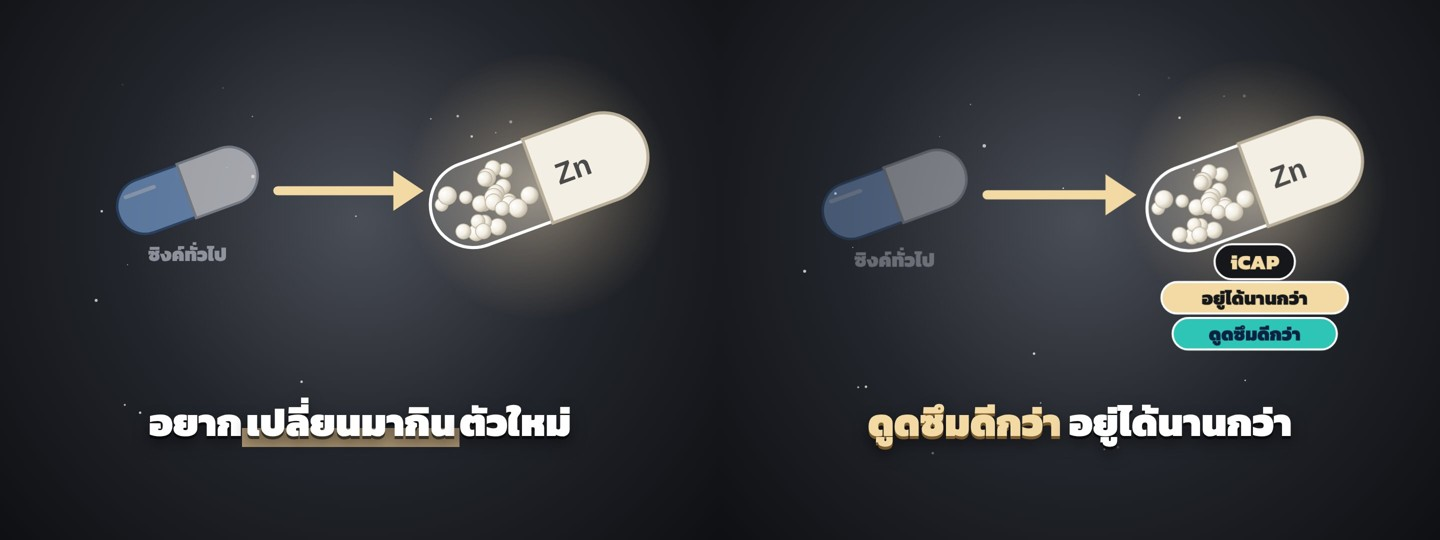
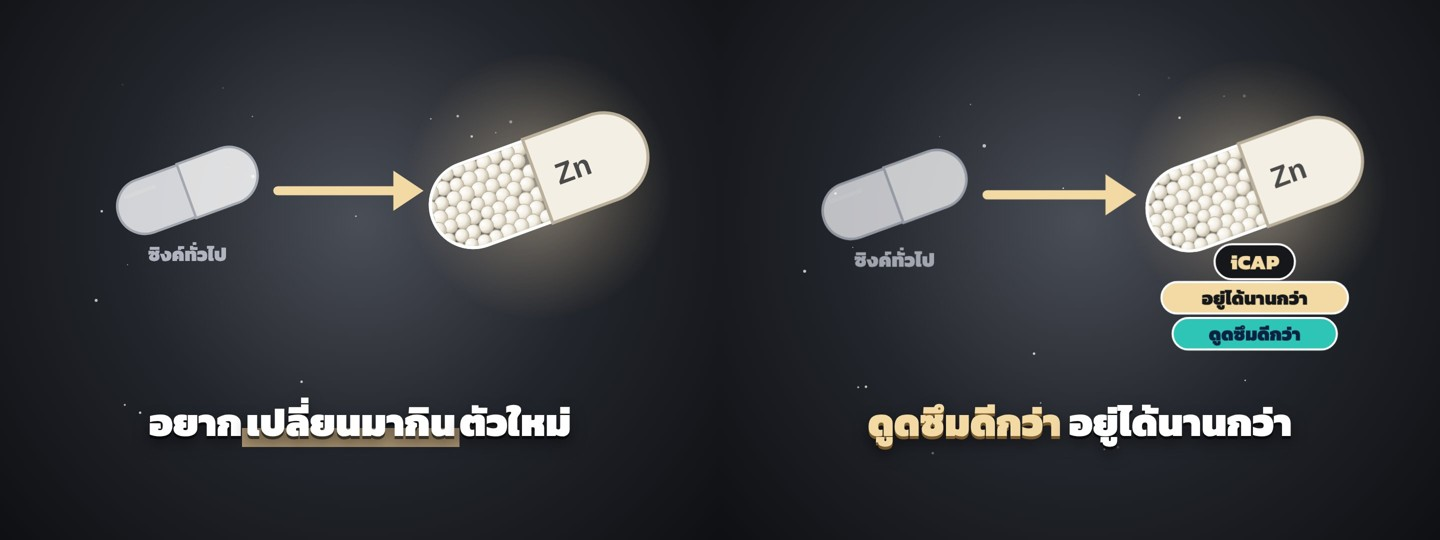
2311: plain white capsule, fuller pellets in iCAP capsule
Claude-Session: https://claude.ai/code/session_013vK57e4V6MU13RVwJvX1wC

diff --git a/output/src/2311/extra.js b/output/src/2311/extra.js
@@ -56,12 +56,14 @@ window.extra=function(t){
   $('v6').innerHTML=s}
  // S7 switch: plain capsule -> iCAP pellet capsule
  if(on(21.95,25.6)){const lt=t-21.95;let s=`<defs><radialGradient id="gP7" cx=".35" cy=".3" r=".75"><stop offset="0" stop-color="#FFFFFF"/><stop offset=".55" stop-color="#F3EEE3"/><stop offset="1" stop-color="#BFB6A3"/></radialGradient></defs>`;
-  const fade=1-0.6*cl((lt-0.8)/0.4);
-  s+=`<g opacity="${fade}"><g transform="translate(380 380) rotate(-20)"><path d="M0 -55 H-90 A55 55 0 0 0 -90 55 H0Z" fill="#7FA8E0" stroke="#2E4E7A" stroke-width="5"/><path d="M-2 -57 H88 A57 57 0 0 1 88 57 H-2Z" fill="#E7E9EE" stroke="#9AA0AC" stroke-width="5"/><path d="M-120 -30 H-60" stroke="#fff" stroke-width="8" stroke-linecap="round" opacity=".5"/></g><text x="380" y="520" text-anchor="middle" font-family="K" font-weight="900" font-size="38" fill="#C9CED8">ซิงค์ทั่วไป</text></g>`;
+  const fade=1-0.25*cl((lt-0.8)/0.4);
+  s+=`<g opacity="${fade}"><g transform="translate(380 380) rotate(-20)"><path d="M0 -55 H-90 A55 55 0 0 0 -90 55 H0Z" fill="#F4F5F8" stroke="#B9BEC8" stroke-width="5"/><path d="M-2 -57 H88 A57 57 0 0 1 88 57 H-2Z" fill="#FFFFFF" stroke="#B9BEC8" stroke-width="5"/><path d="M-120 -30 H-60" stroke="#fff" stroke-width="8" stroke-linecap="round" opacity=".5"/></g><text x="380" y="520" text-anchor="middle" font-family="K" font-weight="900" font-size="38" fill="#C9CED8">ซิงค์ทั่วไป</text></g>`;
   const a=cl((lt-0.5)/0.5);s+=`<path d="M560 380 H${560+230*eOC(a)}" stroke="#F3D9A4" stroke-width="18" stroke-linecap="round"/>`+(a>0.8?`<path d="M790 340 L850 380 L790 420Z" fill="#F3D9A4"/>`:'');
   const k=eOB(cl((lt-0.9)/0.4));let caps=`<g transform="translate(1080 360) scale(${k*1.5}) rotate(-20)"><path d="M0 -55 H-90 A55 55 0 0 0 -90 55 H0Z" fill="rgba(255,255,255,.15)" stroke="#fff" stroke-width="4"/>`;
   let kk=5;const rr=()=>{kk=(kk*16807)%2147483647;return (kk-1)/2147483646};
-  for(let i=0;i<26;i++)caps+=`<circle cx="${-18-rr()*120}" cy="${(rr()-.5)*84}" r="${8+rr()*4}" fill="url(#gP7)" stroke="#BFB6A3" stroke-width="1"/>`;
+  caps+=`<clipPath id="cp7"><path d="M0 -53 H-90 A53 53 0 0 0 -90 53 H0Z"/></clipPath><g clip-path="url(#cp7)">`;
+  for(let row=0;row<7;row++)for(let col=0;col<9;col++){const x=-8-col*17-(row%2)*8.5+(rr()-.5)*3,y=-48+row*16+(rr()-.5)*3;caps+=`<circle cx="${x.toFixed(1)}" cy="${y.toFixed(1)}" r="${(8.5+rr()*1.8).toFixed(1)}" fill="url(#gP7)" stroke="#BFB6A3" stroke-width="1"/>`}
+  caps+=`</g><path d="M0 -55 H-90 A55 55 0 0 0 -90 55 H0" fill="none" stroke="#fff" stroke-width="4"/>`;
   caps+=`<path d="M-2 -57 H88 A57 57 0 0 1 88 57 H-2Z" fill="#F4EFE4" stroke="#B9AF9B" stroke-width="4"/><text x="46" y="14" text-anchor="middle" font-family="Arial" font-weight="700" font-size="38" fill="#4A4A4A">Zn</text></g>`;
   s+=`<defs><radialGradient id="gl7"><stop offset="0" stop-color="#FFECC8" stop-opacity=".45"/><stop offset="1" stop-color="#D9B98A" stop-opacity="0"/></radialGradient></defs><circle cx="1080" cy="370" r="${260*k}" fill="url(#gl7)"/>`+caps+pill(1080,510,'iCAP',cl((lt-1.2)/0.3),'#16171B','#F3D9A4',40);
   s+=pill(1080,650,'ดูดซึมดีกว่า',cl((lt-1.8)/0.3),'#2EC4B6','#0B2240',36)+pill(1080,580,'อยู่ได้นานกว่า',cl((lt-2.3)/0.3),'#F3D9A4','#16171B',36);
